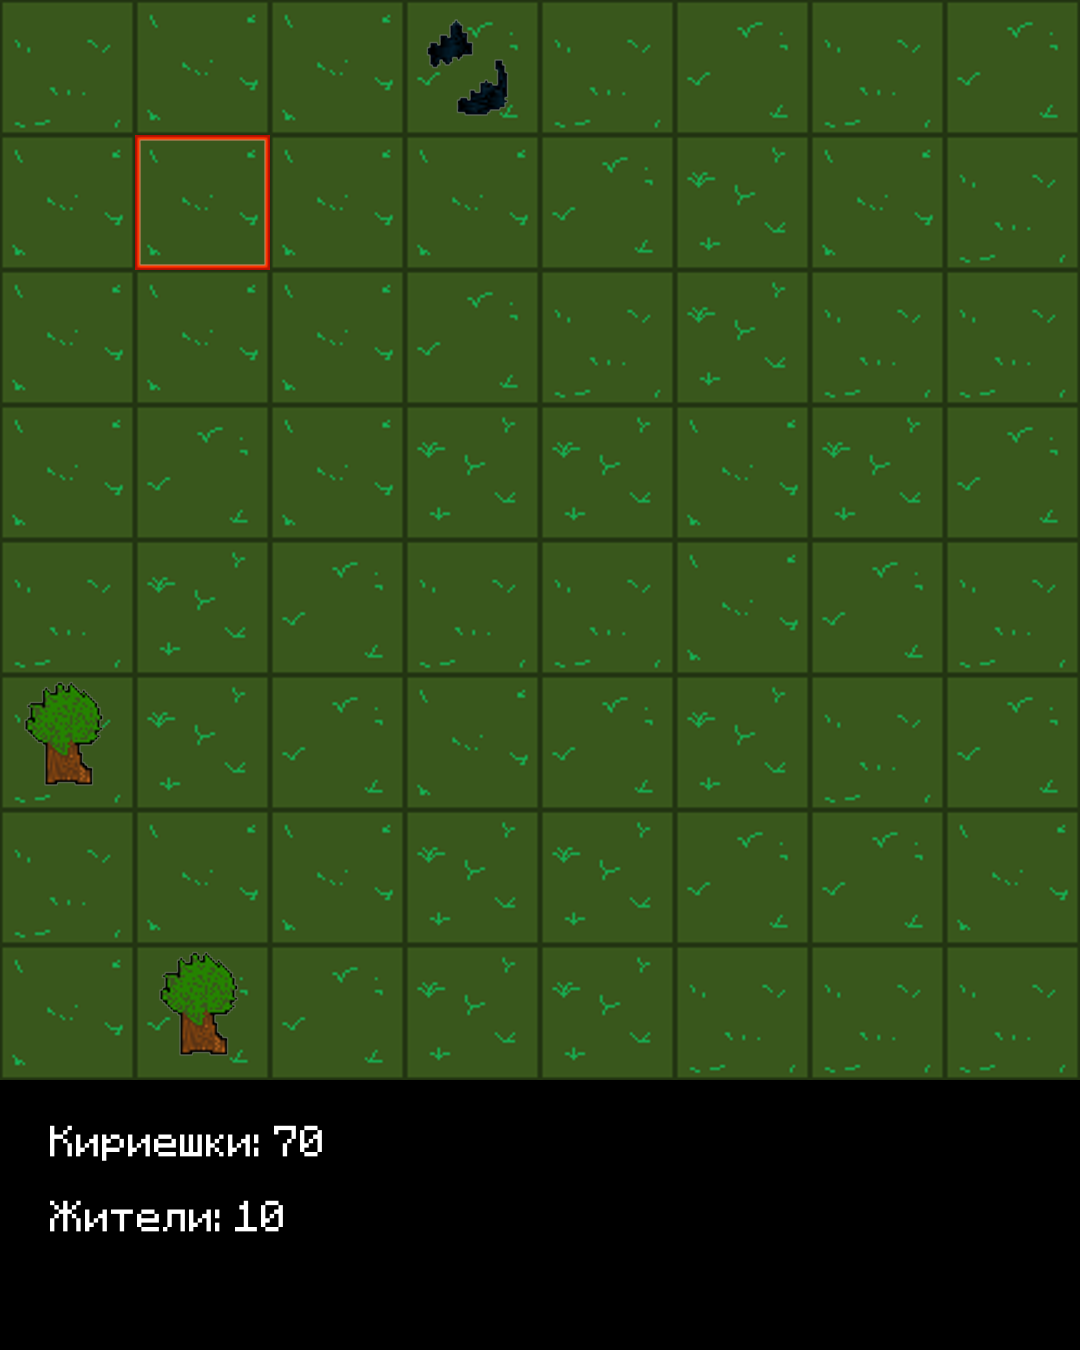
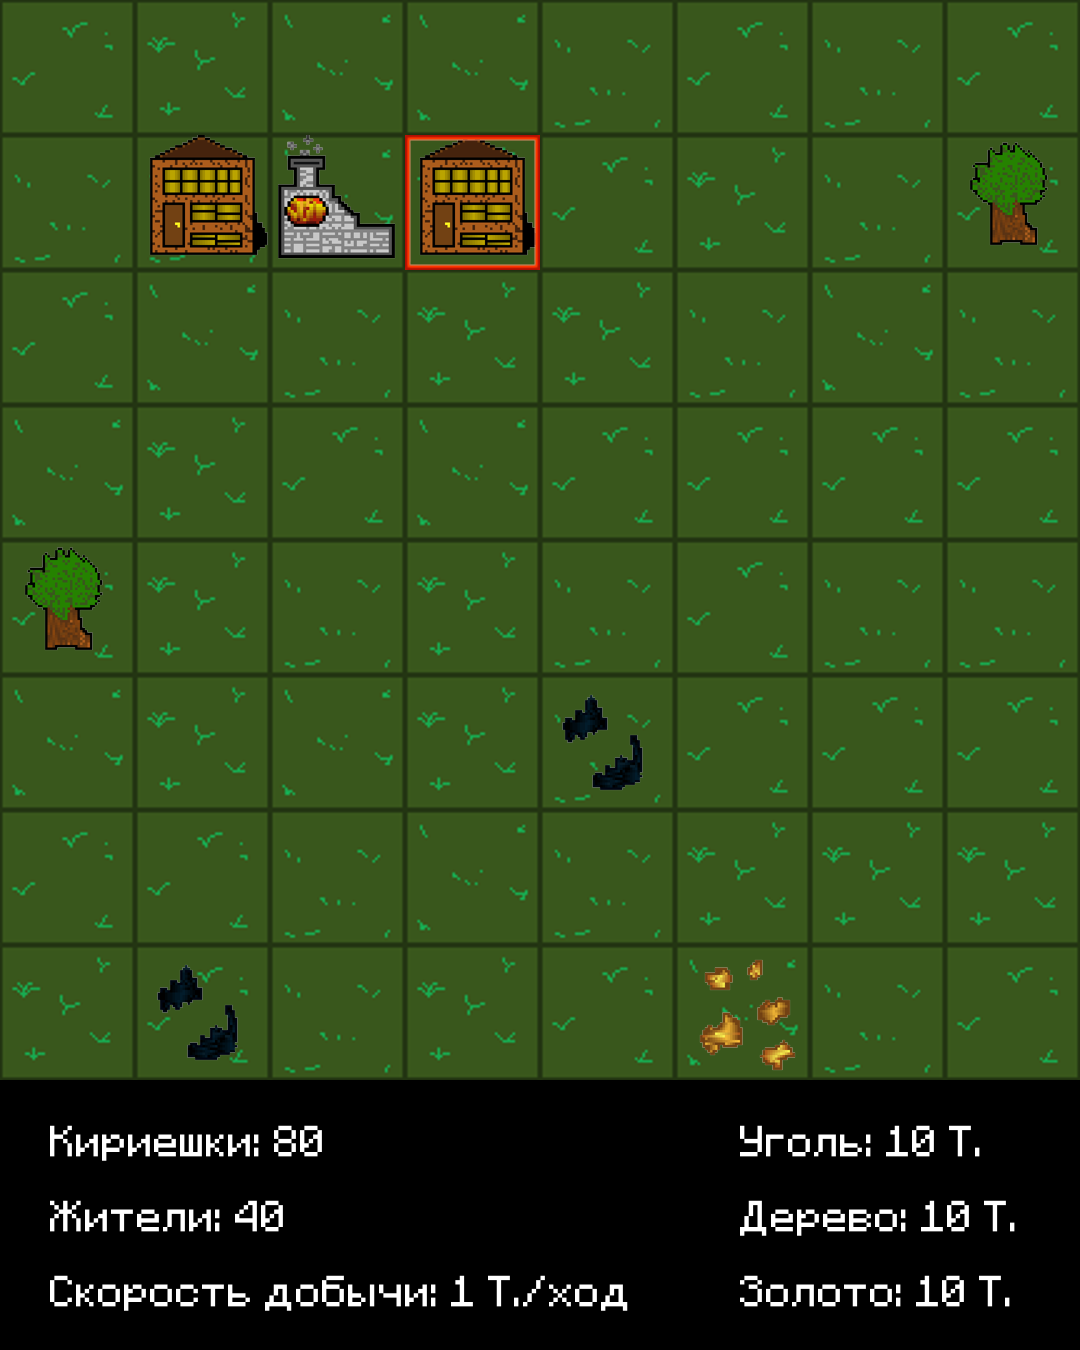
FINALLY TARHUN - COMLETED PROJECT

diff --git a/BGEvr/Model/player.py b/BGEvr/Model/player.py
@@ -17,7 +17,6 @@ class Player:
         self.player_units = self.db.select_by_user_id("user_info",self.user_id)[0][2]
         self.player_res = self.db.select_by_user_id("user_info",self.user_id)[0][13]
         self.speed_mining = self.db.select_by_user_id("user_info",self.user_id)[0][17]
-        self.previous_level = self.db.select_by_user_id("user_info",self.user_id)[0][18]
         self.player_level = 1
         self.turn_counter = self.db.select_by_user_id("user_info",self.user_id)[0][15]
         self.progress = {"x" : self.player_pos_x,"y" : self.player_pos_y}
@@ -93,10 +92,10 @@ class Player:
 
         user_houses = self.db.select_by_user_id("user_info", user_id)[0][3]
         
-        if self.turn_counter == 3:
-            t = self.gr.generate_res_by_turn(1)
+        if self.turn_counter % 4 == 3:
+            t = self.gr.generate_res_by_turn(self.player_level)
             q = self.db.select_by_user_id("user_info",user_id)[0][13] + ',' + t
-            self.turn_counter = 0
+            #self.turn_counter = 0
             req = f"""res_id = '{q}',turn_counter = {self.turn_counter}"""
             #print(t)
             #print(q)
@@ -104,10 +103,9 @@ class Player:
             self.db.update_by_user_id("user_info", req, id=user_id)
 
         self.db.update_by_user_id("user_info",f"""turn_counter = {self.turn_counter}""",user_id)
-        self.previous_level = self.db.select_by_user_id("user_info",self.user_id)[0][18]
-        if self.speed_mining > 9 and int(self.previous_level) == 1: # поменять на код-во шагов
+        #self.previous_level = self.db.select_by_user_id("user_info",self.user_id)[0][18]
+        if self.turn_counter in [10,25,50,100]:
             self.player_level += 1
-            self.previous_level += 1
             self.send_kudos = True
         else:
             self.send_kudos = False
@@ -123,11 +121,12 @@ class Player:
             self.player_money += houses_data[house][0]
             self.player_units += houses_data[house][1]
         self.game.mine_resources()
-        req = f"""money = {self.player_money + (100*self.player_level * self.send_kudos)},units = {self.player_units},player_level = {self.player_level},mining_speed={self.convert_units_to_speed()},previous_level = {self.previous_level}"""
+        req = f"""money = {self.player_money + (100*self.player_level * self.send_kudos)},units = {self.player_units},player_level = {self.player_level},mining_speed={self.convert_units_to_speed()}"""
         self.db.update_by_user_id("user_info", req, id=user_id)
+        if self.player_level == 4:
+            return f"Поздравляю, вы прошли нашу игру.\n Вы потратили 185 ходов для этого и это круто, надеюсь Вам понравилось :)"
         if self.send_kudos:
             return f"Поздравляю, вы увеличили свой уровень на 1,теперь он стал {self.player_level} / 4\nИ в честь этого мы отправляем вам небольшой подарок - немного кириешек.\nУдачного миросозерцания :)"
-
         return f"Еще один ничего не значащий ход{"." * self.turn_counter}"
     
     def build_smth(self,buiding, user_id):

diff --git a/BGEvr/botik.py b/BGEvr/botik.py
@@ -148,11 +148,13 @@ class RunGameBot:
         if query.data == 'upgrade':
             self.txt+=self.player.update_house()
             update_usage = True
+
         #self.player.next_turn()
         self.render.render(self.player.progress, query.from_user.id)
         self.render.save_pic(query.from_user.id)
         if update_usage:
             self.player_view.send_pic(Update,CallbackContext, query.from_user.id, query.message.message_id, db=self.db)
+        
         #REQUEST = f"""var_1 = {...},var_2 = {...}"""
         get_request = f"""updated={int(datetime.now().timestamp())}"""
         self.db.update_by_user_id("user_info",get_request,self.user.id)

diff --git a/BGEvr/View/render.py b/BGEvr/View/render.py
@@ -36,6 +36,9 @@ class Render:
         draw.text((740, 1125), f"Уголь: {self.user_data[11] } Т.", font=font)
         draw.text((740, 1200), f"Дерево: {self.user_data[10] } Т.", font=font)
         draw.text((740, 1275), f"Золото: {self.user_data[16] } Т.", font=font)
+        if self.db.select_by_user_id("user_info",user_id)[0][14] == 4:
+            finally_trahun = Image.open("./res/end_pic.png").resize((self._one_point_size*8, self._one_point_size*8))
+            self._map.paste(finally_trahun,(0,0), mask=_selected)
         return self._map
     def save_pic(self,user_id):
         self._map.save(f"./players_images/{user_id}.png")
